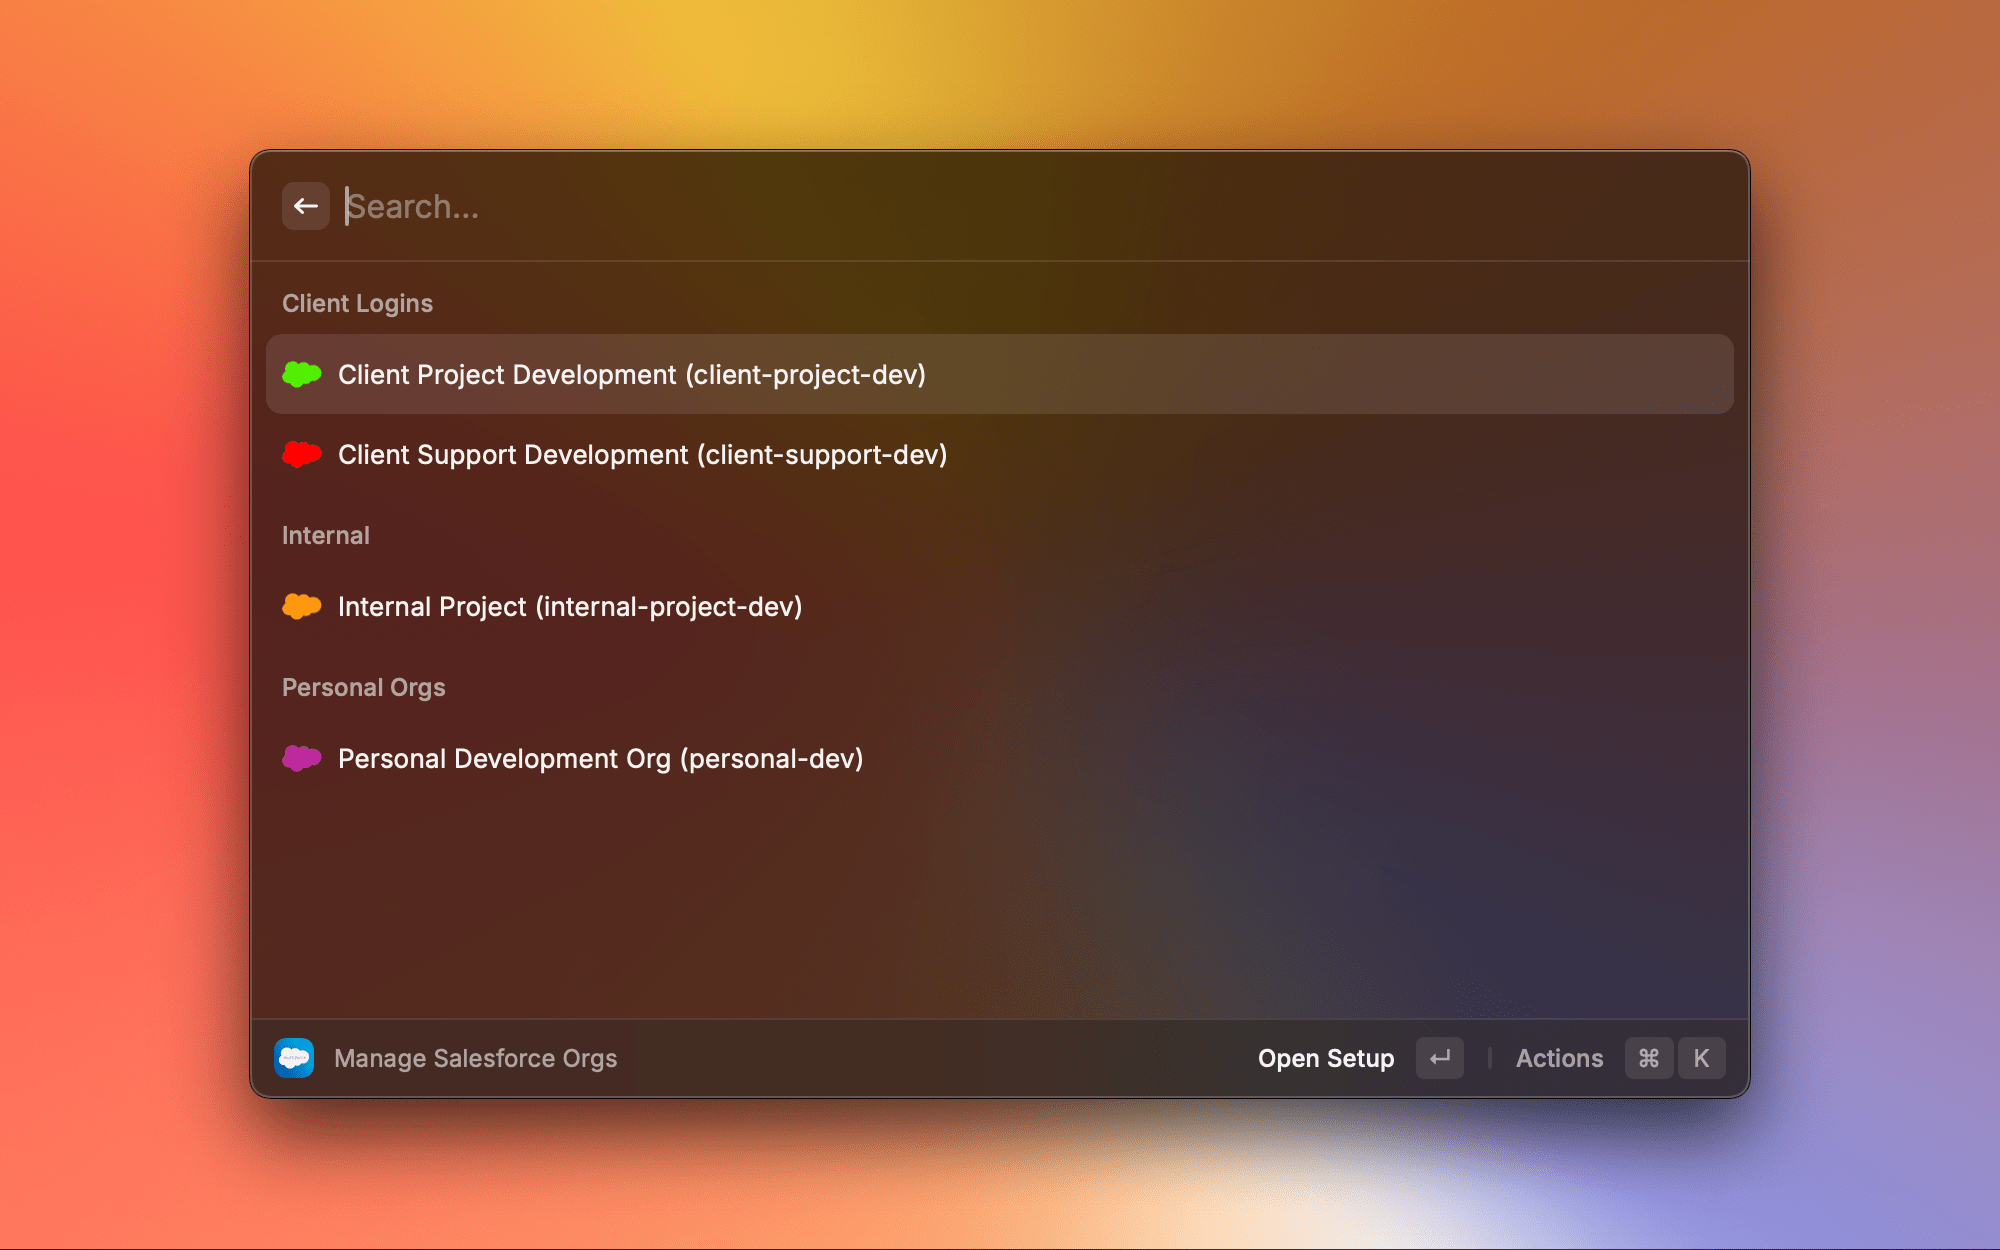
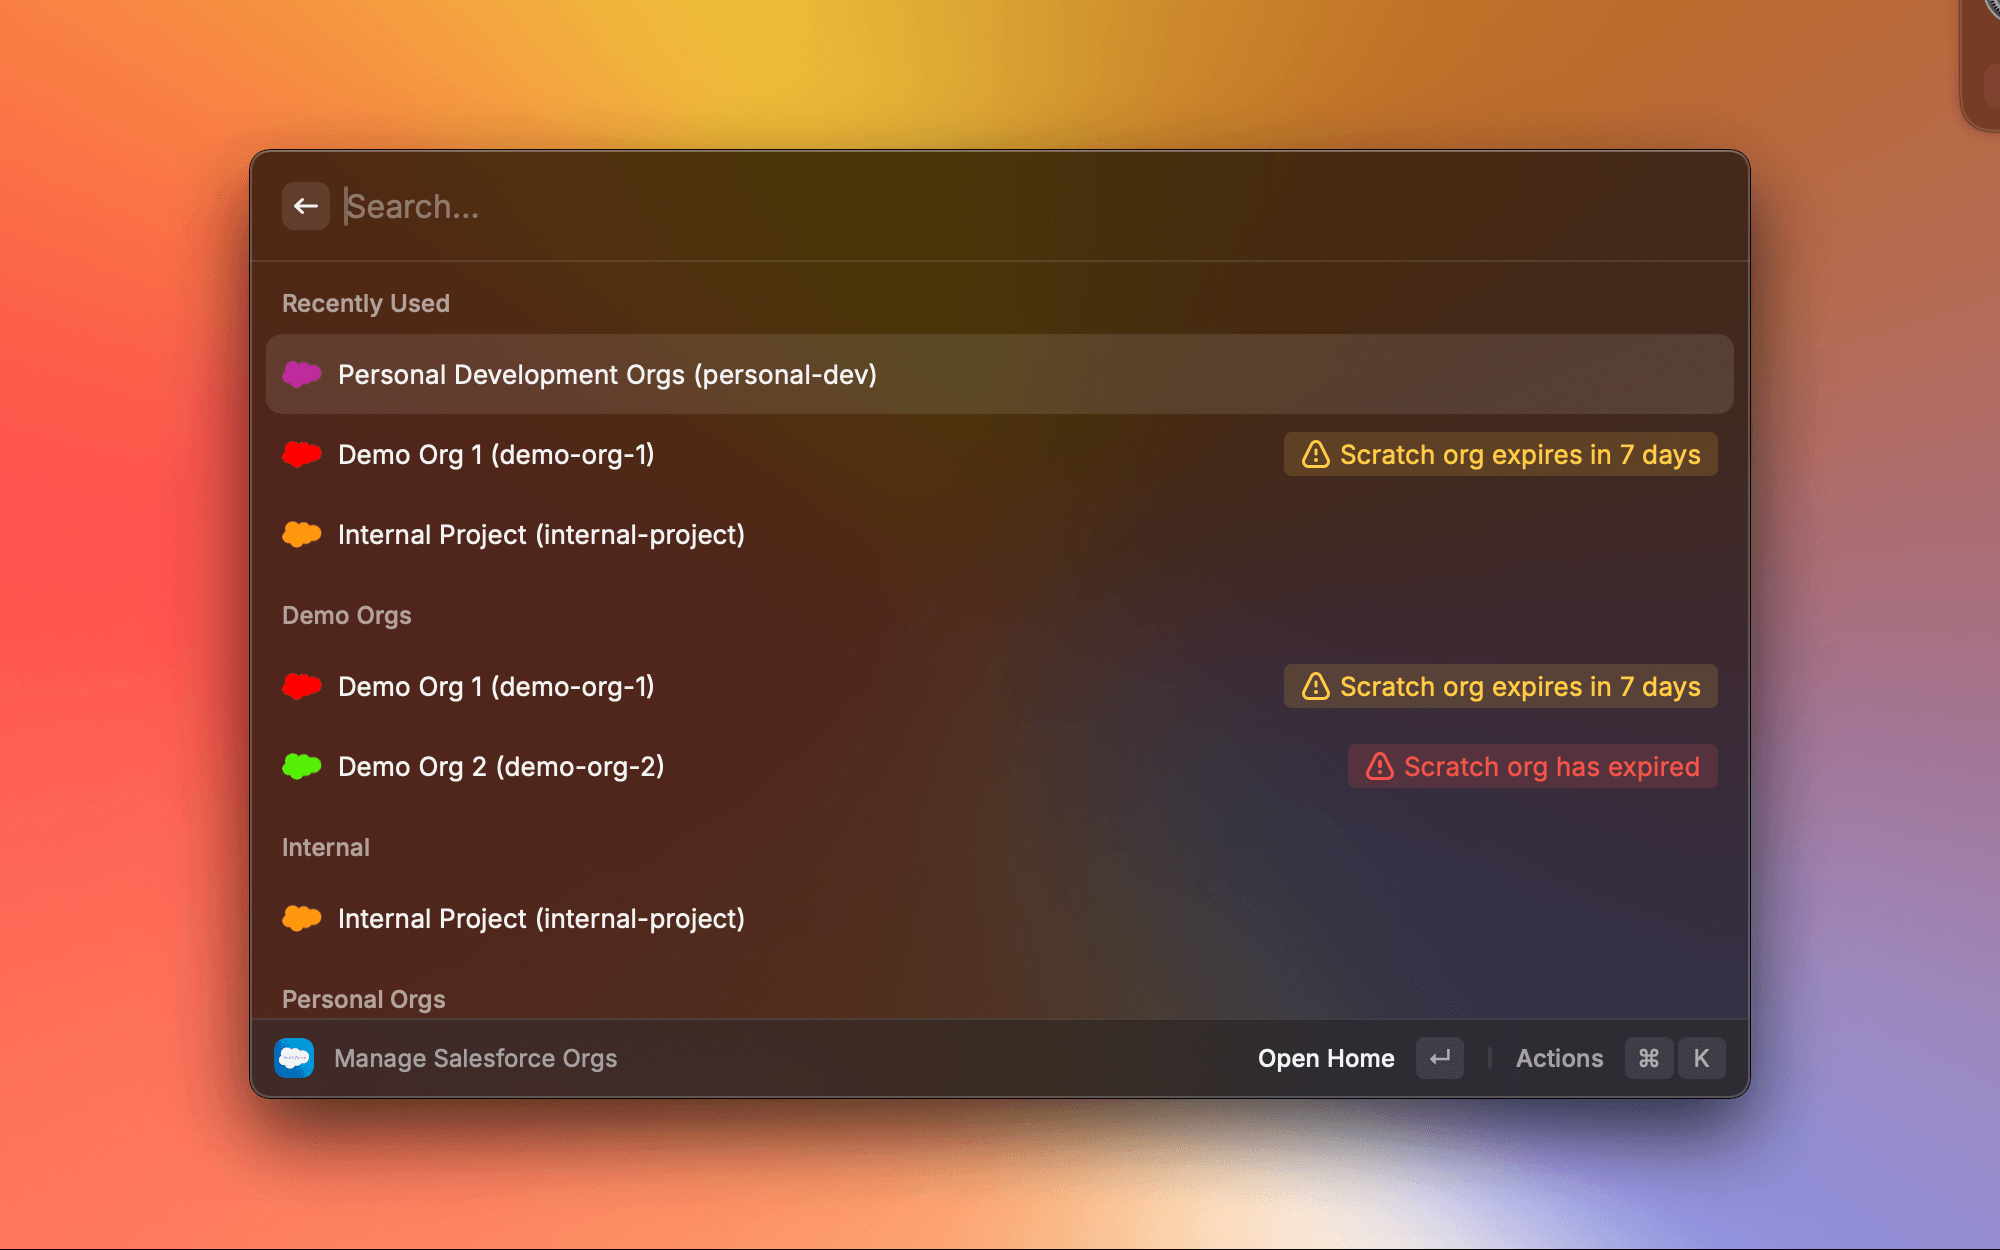
fix date misalignment issue

diff --git a/src/components/listItems/OrgListItem.tsx b/src/components/listItems/OrgListItem.tsx
@@ -21,9 +21,13 @@ import { HOME_PATH, SETUP_PATH } from "../../constants";
 const getExpirationStatus = (org: DeveloperOrg): { icon?: Icon; tooltip?: string; tintColor?: Color } => {
   if (!org.expirationDate) return {};
 
-  const expirationDate = new Date(org.expirationDate);
+  // Parse the date and set it to midnight in local timezone
+  const [year, month, day] = org.expirationDate.split('-').map(Number);
+  const expirationDate = new Date(year, month - 1, day); // month is 0-based in JS
   const now = new Date();
-  const daysUntilExpiration = Math.ceil((expirationDate.getTime() - now.getTime()) / (1000 * 60 * 60 * 24));
+  const today = new Date(now.getFullYear(), now.getMonth(), now.getDate()); // midnight today
+  
+  const daysUntilExpiration = Math.ceil((expirationDate.getTime() - today.getTime()) / (1000 * 60 * 60 * 24));
 
   if (daysUntilExpiration <= 0) {
     return {

diff --git a/src/components/pages/DeveloperOrgDetails.tsx b/src/components/pages/DeveloperOrgDetails.tsx
@@ -137,12 +137,16 @@ export function DeveloperOrgDetails(props: { org: DeveloperOrg; dispatch: Dispat
       {org.expirationDate && (
         <Form.Description 
           title="Expiration Date" 
-          text={new Date(org.expirationDate).toLocaleDateString(undefined, { 
-            weekday: 'long',
-            year: 'numeric',
-            month: 'long',
-            day: 'numeric'
-          })}
+          text={(() => {
+            const [year, month, day] = org.expirationDate.split('-').map(Number);
+            const date = new Date(year, month - 1, day); // month is 0-based in JS
+            return date.toLocaleDateString(undefined, { 
+              weekday: 'long',
+              year: 'numeric',
+              month: 'long',
+              day: 'numeric'
+            });
+          })()}
         />
       )}
       <Form.TextField

diff --git a/src/utils/salesforceUtility.ts b/src/utils/salesforceUtility.ts
@@ -41,7 +41,7 @@ export async function getOrgList(): Promise<DeveloperOrg[]> {
   });
 
   const orgs = await Promise.all(orgsPromises);
-  return orgs;
+   return orgs;
 }
 
 async function executeLoginFlow(oauthConfig: OAuth2Config): Promise<AuthInfo> {
